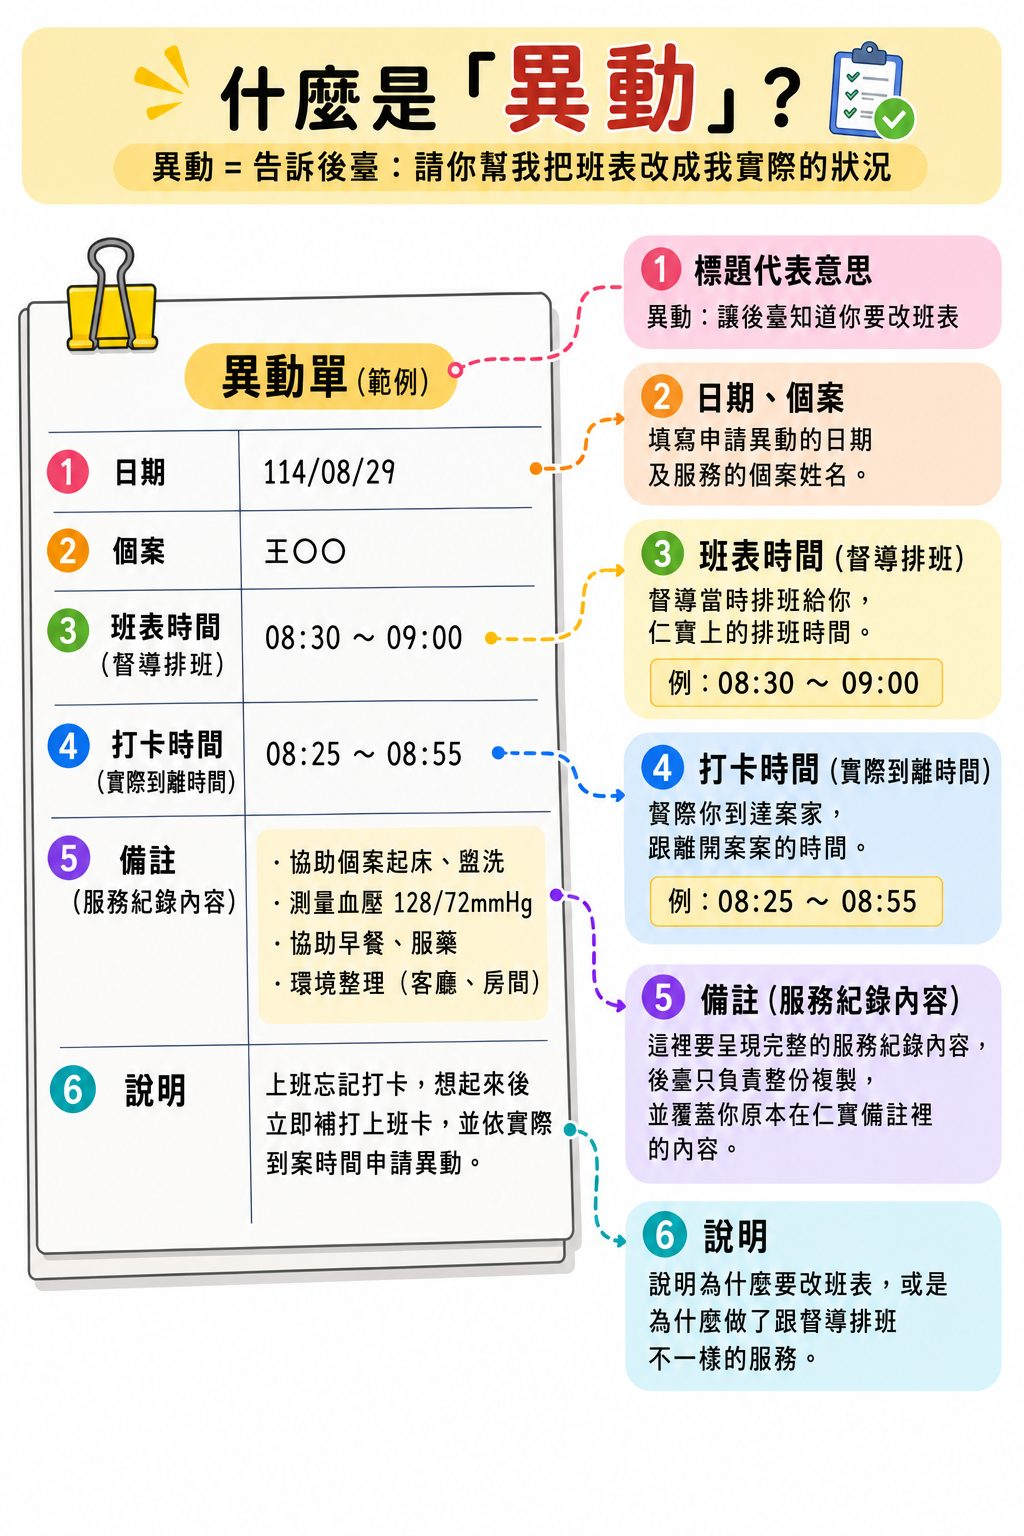
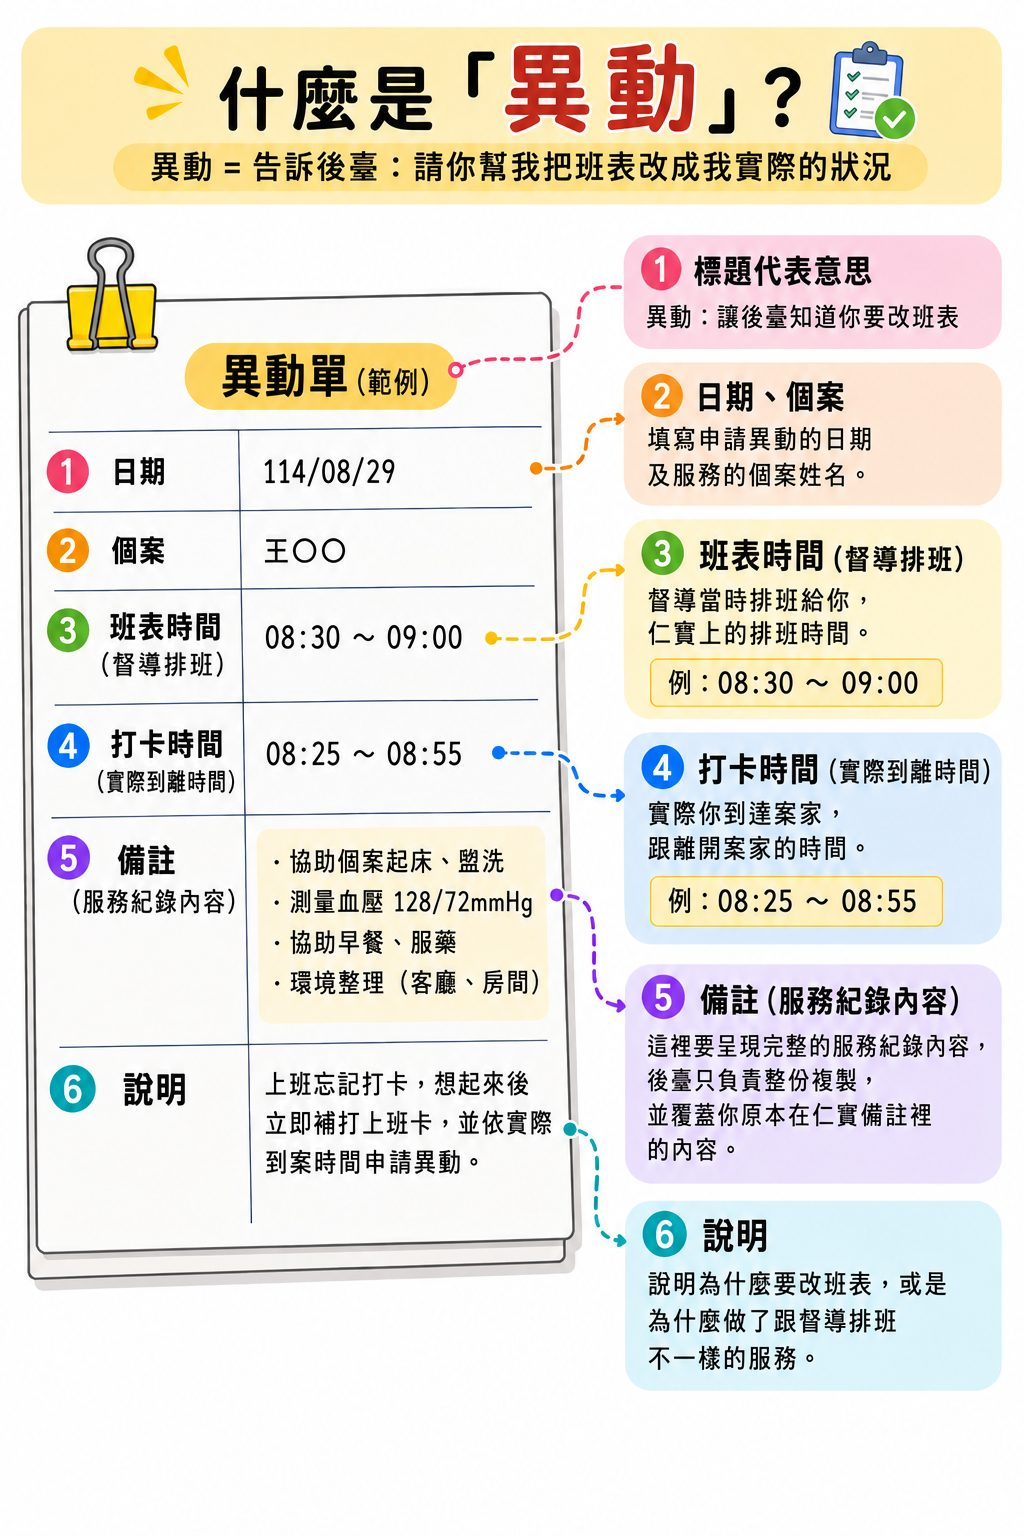
換正確的異動範例圖；回報範例1改為服務快結束才加事

diff --git a/service-guide.html b/service-guide.html
@@ -433,7 +433,7 @@ dl.fields dd{margin-top:2px}
       </div>
       <div class="chat c1">
         <p class="label">範例 1：繼續接，請督導幫我處理</p>
-        <p class="bubble">督導好，陳奶奶這兩週每次都要我多擦窗戶、刷整間廚房，時間都超過。我還是願意繼續接，但請督導幫我跟奶奶和家屬說明服務範圍，請他們不要再加項目。</p>
+        <p class="bubble">督導好，陳奶奶這兩週每次都在服務快結束時，才要我幫忙找東西、擦乳液、再整理一下房間或切一顆蘋果，常常超過時間。我還是願意繼續接，但請督導幫我跟奶奶和家屬說明，有需要的事請一開始就講，讓我在服務時間內安排。</p>
       </div>
       <div class="chat c2">
         <p class="label">範例 2：不想繼續接</p>
@@ -533,7 +533,7 @@ dl.fields dd{margin-top:2px}
     <div class="item">
       <h3><span class="no">範例</span>寫好的樣子</h3>
       <figure class="fig">
-        <img src="form_change_example.jpg?v=2" alt="異動單填寫範例圖" loading="lazy">
+        <img src="form_change_example.jpg?v=3" alt="異動單填寫範例圖" loading="lazy">
         <figcaption>點圖可以放大</figcaption>
       </figure>
       <div class="ex-grid">
